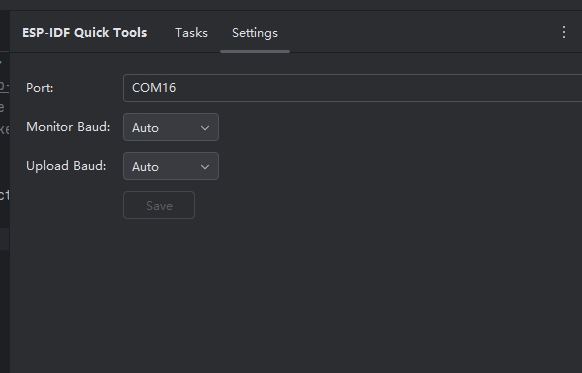
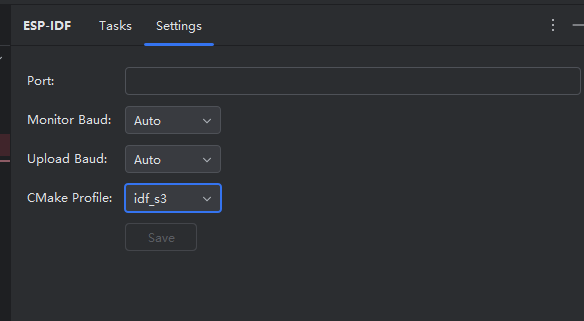
更新0.5.0文档

diff --git a/change_note.html b/change_note.html
@@ -5,6 +5,33 @@
     <title>ESP-IDF for CLion Change Note</title>
 </head>
 <body>
+<h3>0.5</h3>
+en:
+<ul>
+    <li>Resolved the issue of errors when reading environment variables on macOS by adopting a unified approach of
+        execution within a blocking modal dialog.
+    </li>
+    <li>Fixed the problem preventing debugging from starting on macOS.</li>
+    <li>Added a popup menu in the bottom-right status bar for setting the ESP-IDF target.</li>
+    <li>Task execution now prioritizes standard run configuration tasks over terminal commands, enabling automatic
+        termination of an ongoing Monitor task when a new serial port task is requested. Added a general filter to the
+        task console view, allowing navigation to specific file lines by clicking file links in the console, with stderr
+        output displayed in red.
+    </li>
+    <li>Task trees now support specifying a Profile, allowing assignment of the corresponding Profile to run items when
+        multiple CMake Profiles are available.
+    </li>
+</ul>
+中文:
+<ul>
+    <li>解决MacOs读取环境变量报错问题，统一采取阻塞模态窗执行。</li>
+    <li>解决MacOs无法启动调试的问题。</li>
+    <li>增加右下角状态栏设置target的状态Popupmenu</li>
+    <li>将执行任务优先采用常规运行配置任务项执行而非终端命令，实现了常规任务的Monitor任务被新请求串口任务自动关停；增加了任务控制台视图逸通用过滤器，
+        可以点击控制台视图上的文件链接进行跳转文件具体行，stderr会使用红色。
+    </li>
+    <li>任务树支持了指定Profile，在多CMake Profile可以指定运行项对应的Profile</li>
+</ul>
 <h3>0.4</h3>
 en:
 <p>Integrated OpenOCD Debugging Support:</p>

diff --git a/src/main/java/org/btik/espidf/toolwindow/EspIdfToolWindowFactory.java b/src/main/java/org/btik/espidf/toolwindow/EspIdfToolWindowFactory.java
@@ -27,7 +27,5 @@ public class EspIdfToolWindowFactory implements ToolWindowFactory {
         contentManager.addContent(taskContent);
         Content setttingsContent = contentFactory.createContent(new EspIdfToolWindowSettingPanel(project), $i18n("esp.idf.tool.window.settings"), false);
         contentManager.addContent(setttingsContent);
-        Content kconfigContent = contentFactory.createContent(new EspIdfMenuConfigPanel(project), $i18n("esp.idf.tool.window.sdk.config"), false);
-        contentManager.addContent(kconfigContent);
     }
 }

diff --git a/doc_source/topics/zh/toolTree.md b/doc_source/topics/zh/toolTree.md
@@ -16,8 +16,10 @@ platformio项目中使用idf命令行。
 * `IDF Export Console`会使用原来的export脚本，将环境变量导入当前会话，比本插件直接对比环境变量差异追加的环境变量更加全面。例如
 `espefuse.py`在`IDF Console`中无法使用，建议使用`IDF Export Console`.
 
-* 在CLion的终端里面的使用MenuConfig 中使用ESC默认行为是上方编辑器获取焦点。从而使得ESC不可操作Menuconfig。
-建议移除终端的<kdb>ESC</kbd>按键功能进入Settings ->keymap -> Plugins | Terminal | Switch Focus To Editor
+* 在CLion的终端里面的使用MenuConfig 中使用ESC默认行为是上方编辑器获取焦点。
+
+从而使得ESC不可操作Menuconfig。 建议移除终端的<kdb>ESC</kbd>按键将焦点切换到编辑器功能<br>
+进入Settings ->keymap -> Plugins | Terminal | Switch Focus To Editor
 中文版本是 设置->按键映射->插件 | Terminal | 将焦点切换到编辑器
 >若不愿移除，可以使用左箭头代替<kbd>ESC</kbd>回到上一级菜单的功能，使用`Q`代替退出MenuConfig的功能。但编辑文本框退出功能依然无法代替，仅仅可以通过回车确定来关闭。
 

diff --git a/doc_source/topics/zh/debug.md b/doc_source/topics/zh/debug.md
@@ -25,6 +25,9 @@ elf文件可以加载调试需要符号。rom一般是固定的，部分芯片ro
 gdb一般会自动选择,可根据需要重新选择。
 
 
+### Auto功能
+Auto按钮可以自动填充调试配置项，但仅仅只对第一个CMake Profile生成。需要调试其他选项，可以手动选择对应的elf和gdb文件。
+
 ### 调试方法
 ![debug_run.png](debug_run.png)
 
@@ -117,4 +120,4 @@ HINT: OpenOCD process does not have permissions to access the USB JTAG/serial de
 
 最常见于openocd 未成功连接设备退出后， gdb忙于连接openocd等待超时，由于设置了10秒超时时间，
 这个中途clion尝试销毁进程可能不会正确得到响应，最后不再尝试。遇到openocd未能连接设备的情况，可略等待超时后停止调试。
-或者手动kill gbd进程。
+或者手动kill gdb进程。

diff --git a/doc_source/topics/zh/settings.md b/doc_source/topics/zh/settings.md
@@ -4,7 +4,7 @@
 
 ![settings_panel.png](settings_panel.png)
 
-当前只包含串口相关设置。会使用clion自带持久化能力，保存设置参数。
+会使用clion自带持久化能力，保存设置参数。
 
 >项目的`.idea`目录下会有一个`espidf_settings.xml`。
 
@@ -28,3 +28,6 @@ idf.py会把会把波特率传给esptool.py。
 
 >通过环境变量设置，不会影响`IDF Export Console`生成的当前终端会话环境变量。
 
+## CMake Profile
+可以指定任务树使用的CMake Profile用于执行任务时指定cmake build目录。
+可以参考 [Profiles](profiles.md)

diff --git a/doc_source/topics/zh/home.md b/doc_source/topics/zh/home.md
@@ -2,7 +2,7 @@
 
 这是一个非官方的ESP-IDF CLion插件。
 
-当前文档对应插件版本:0.4。
+当前文档对应插件版本:0.5。
 
 在clion官方文档中[clion可无插件配置ESP-IDF](https://www.jetbrains.com/help/clion/esp-idf.html)。
 
